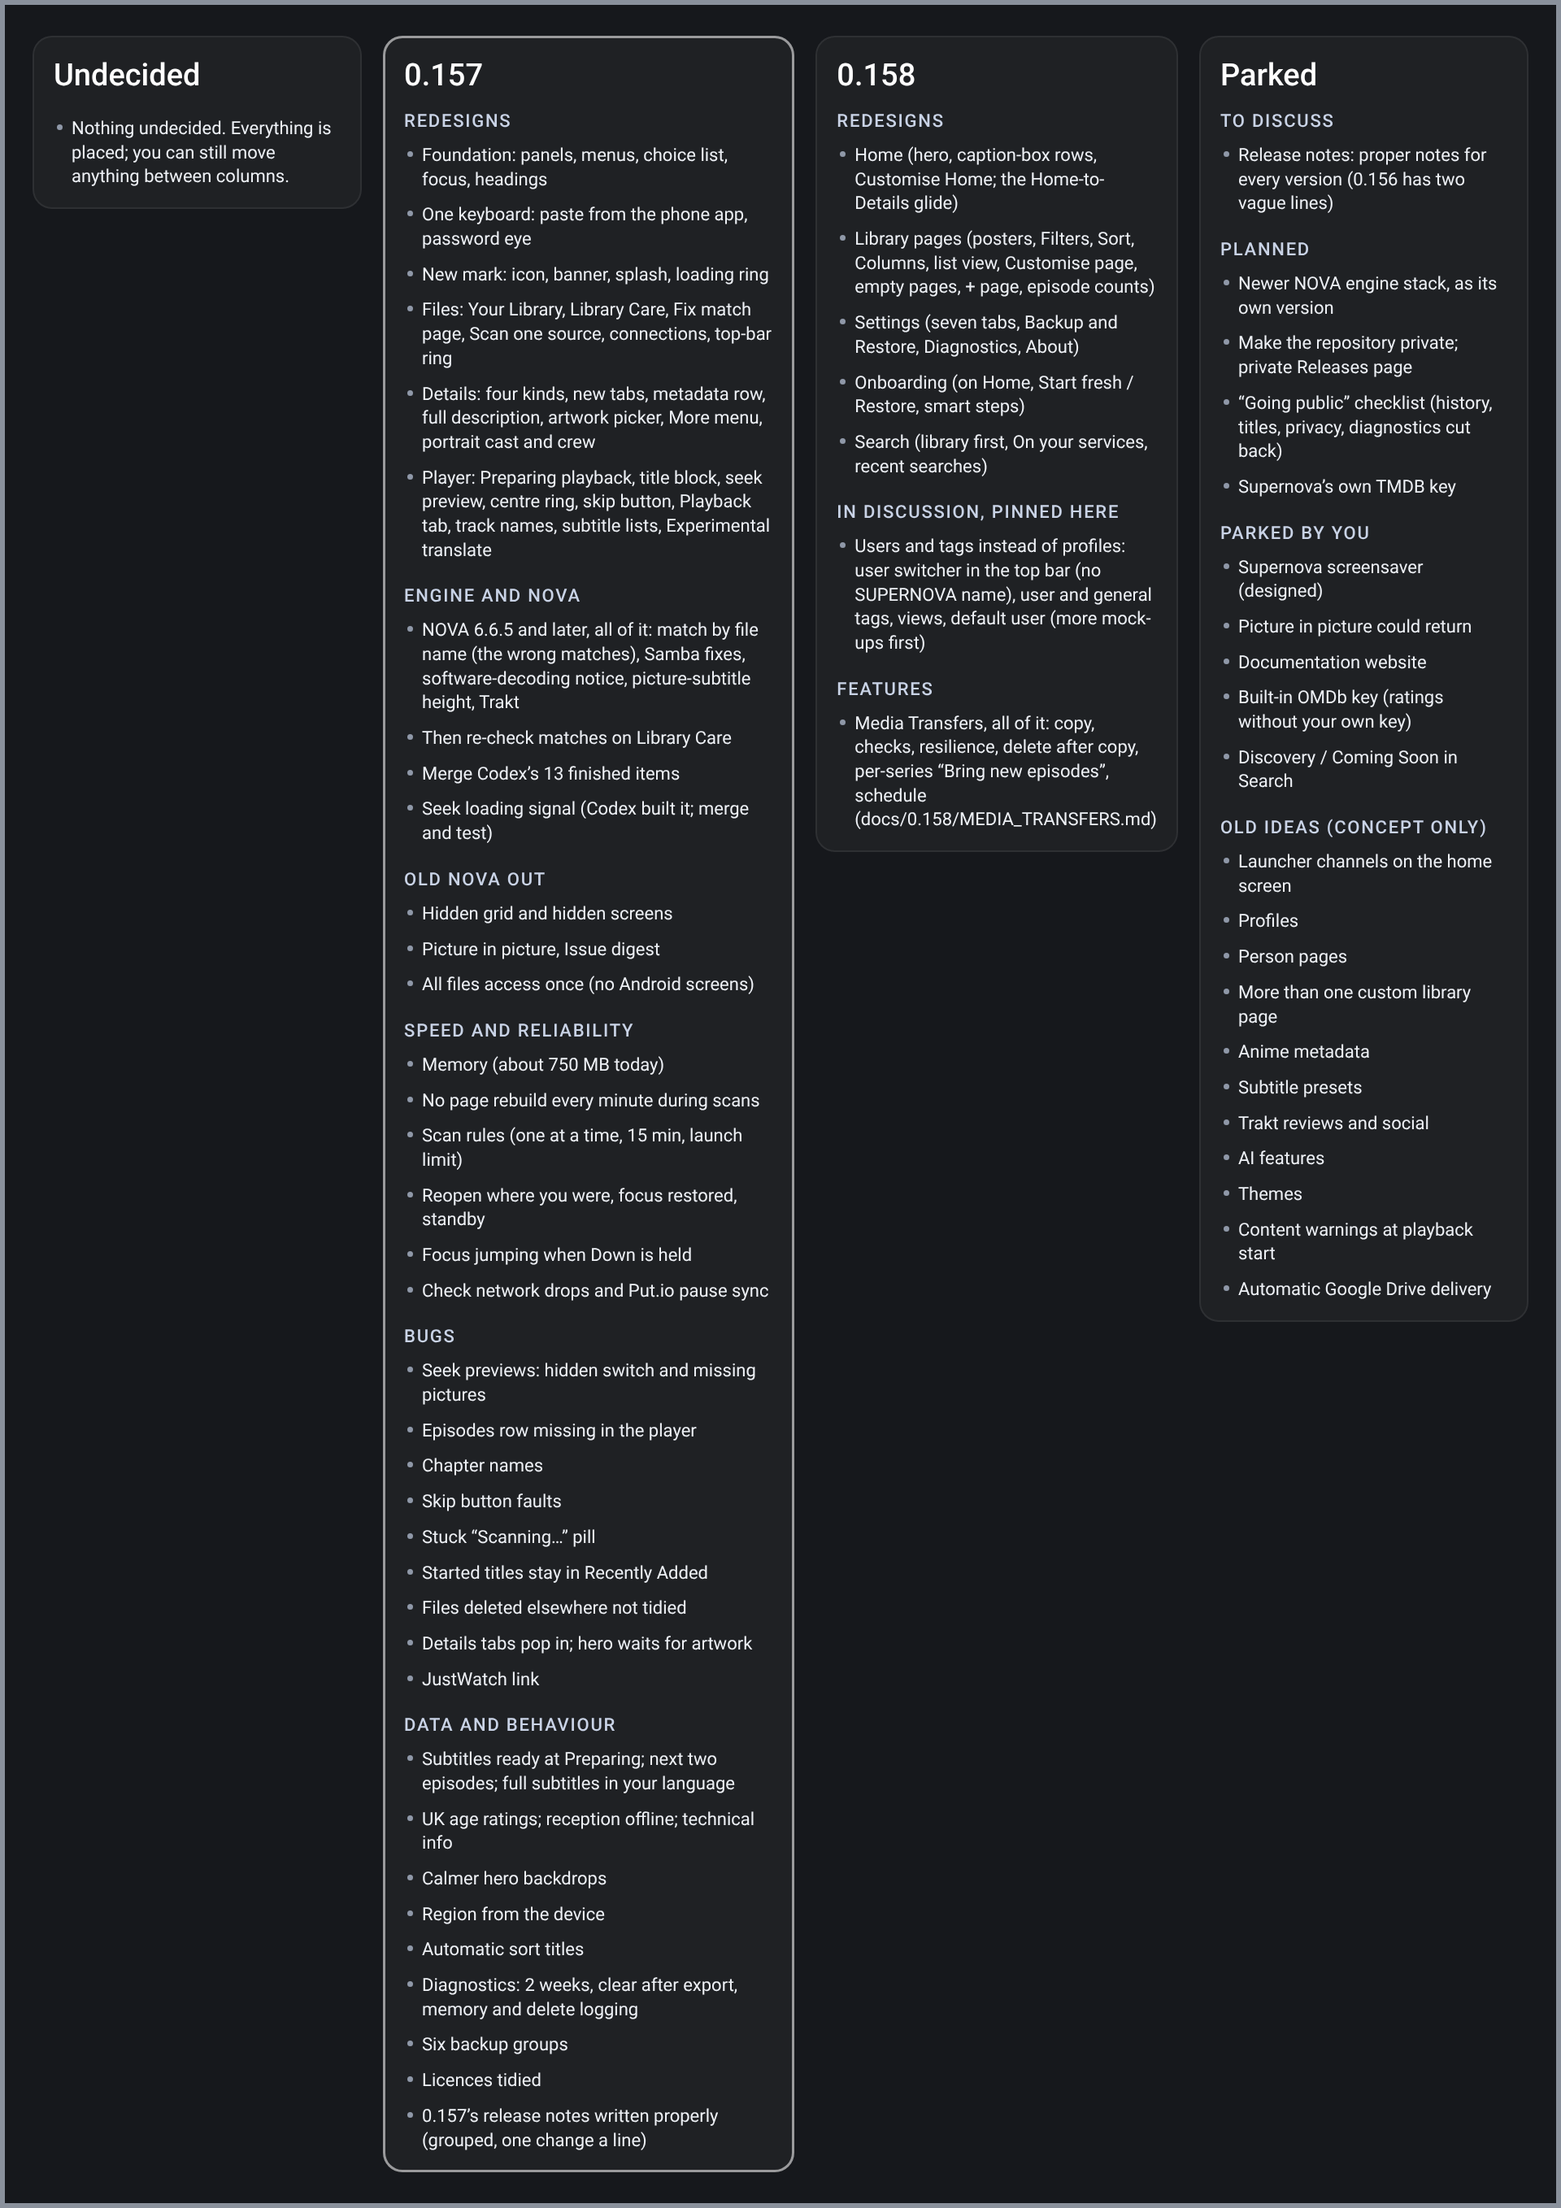
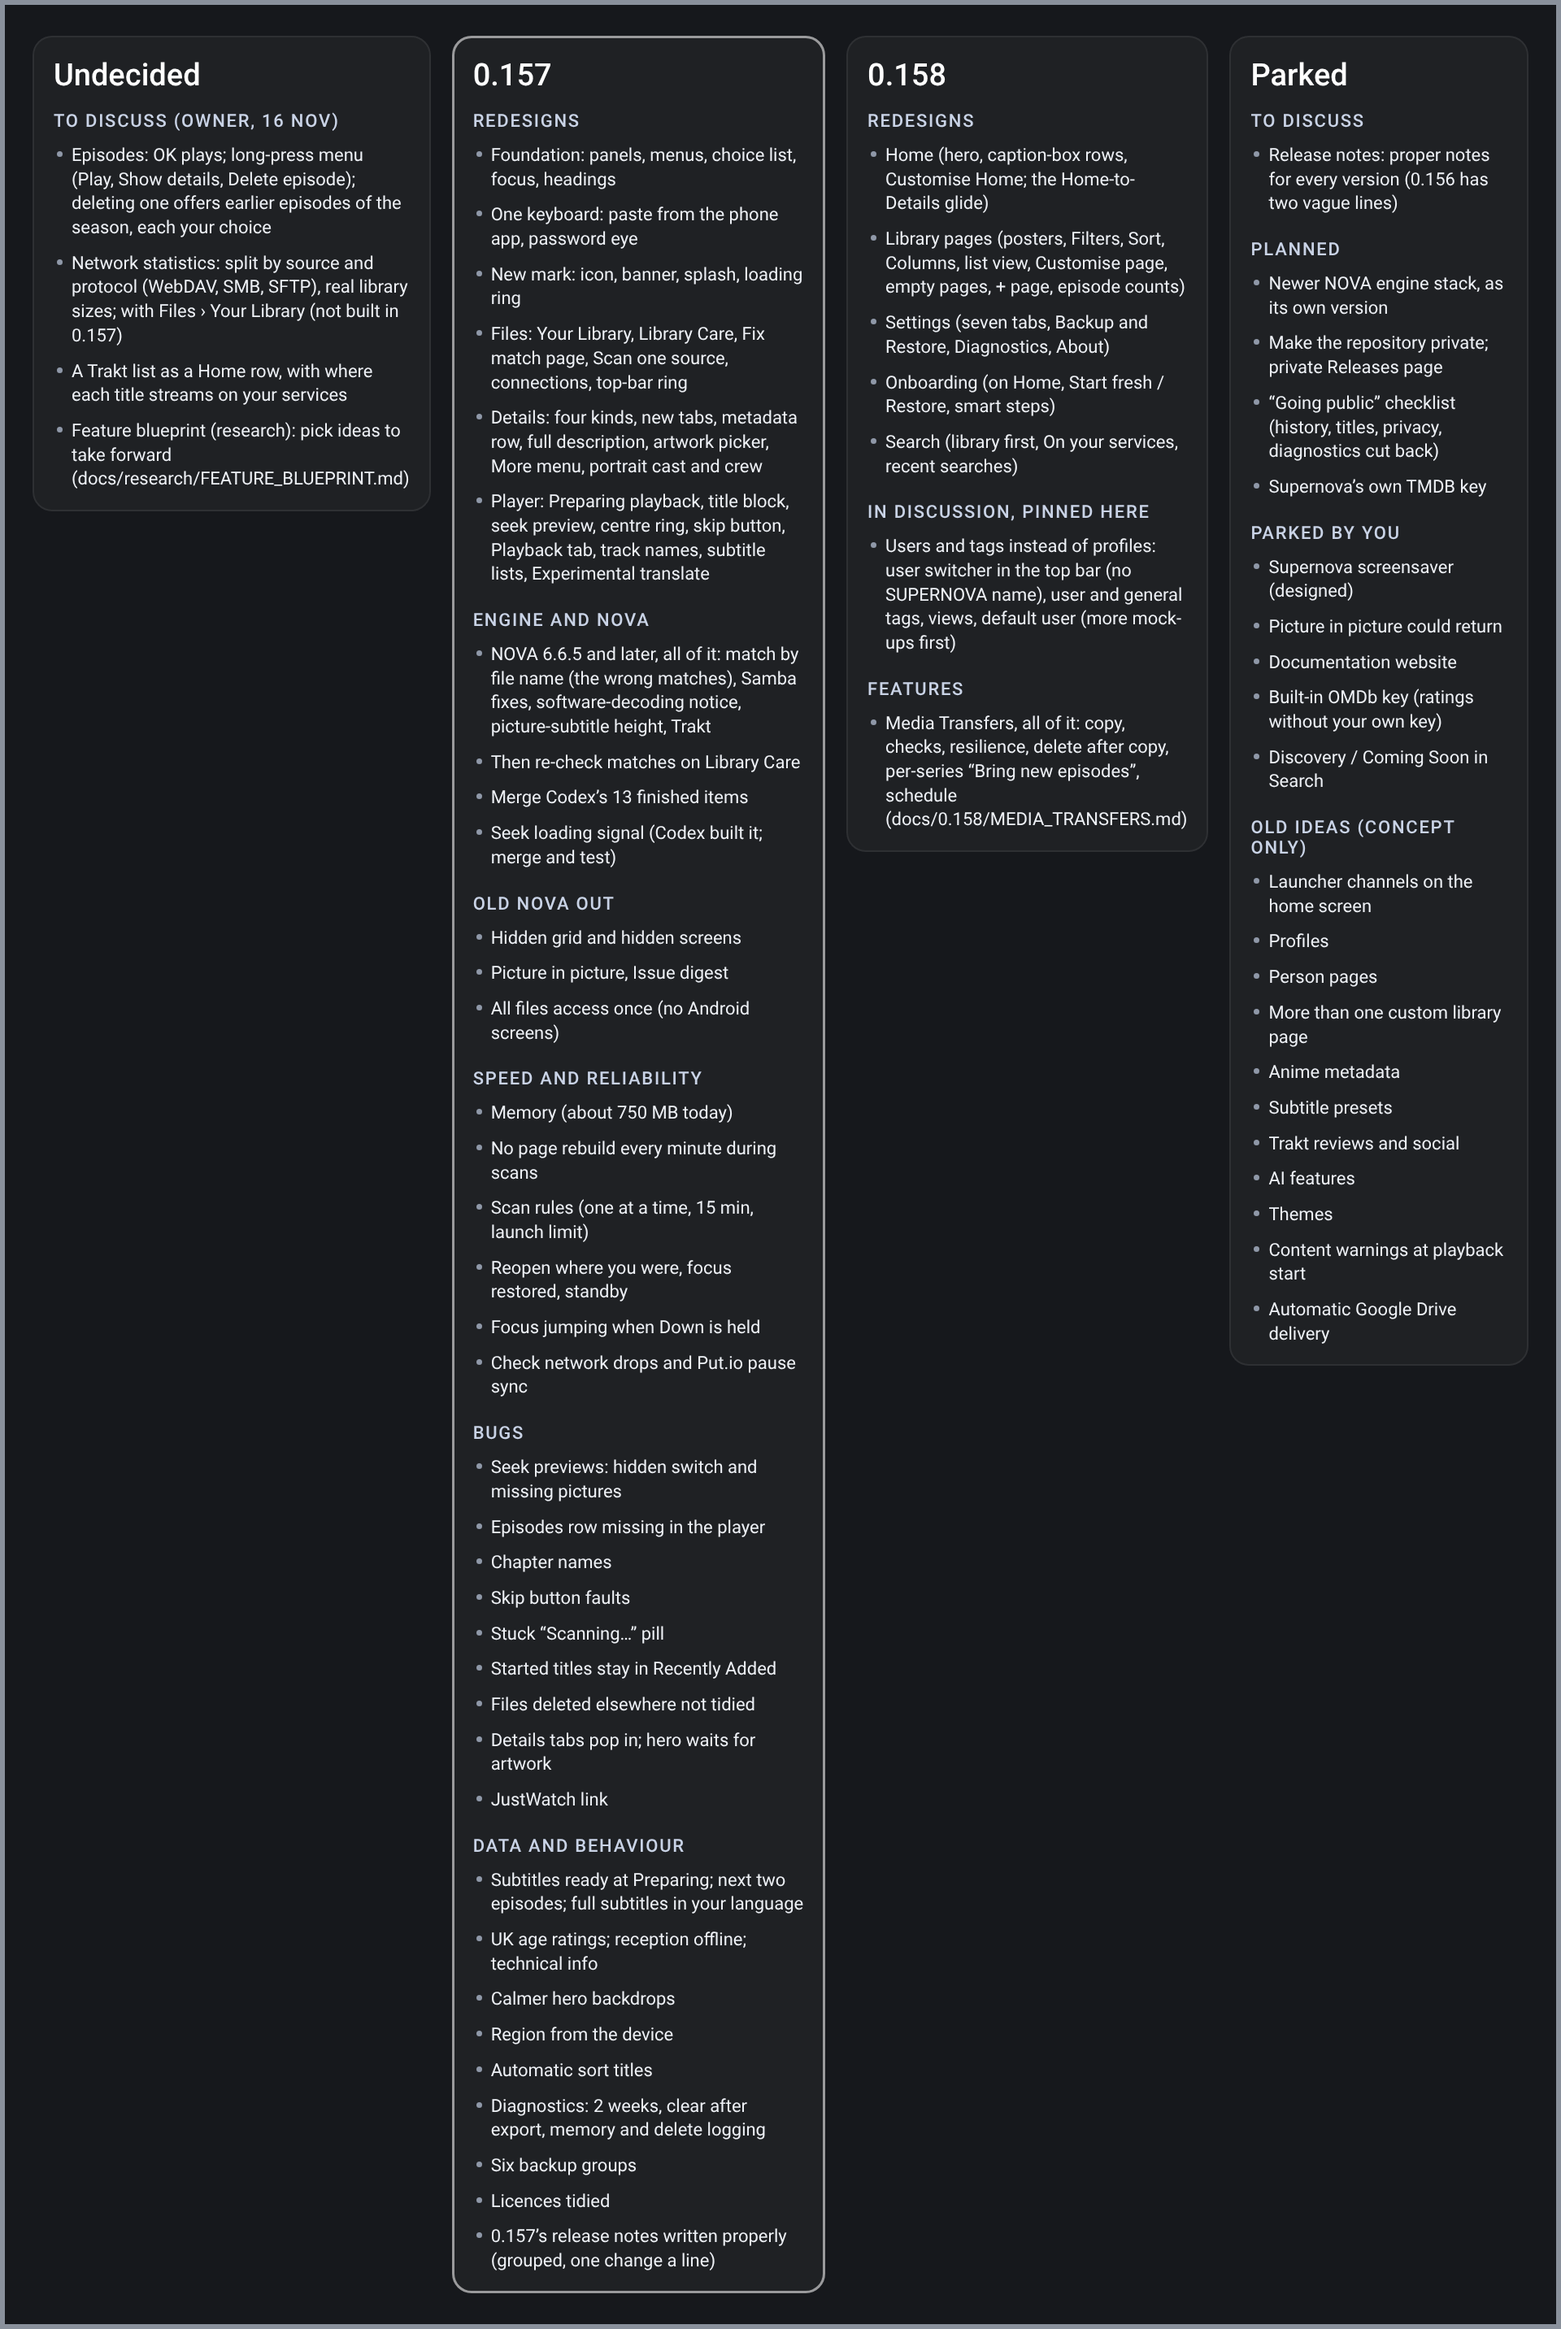
Roadmap: the owner's four 16 Nov items in Undecided, to discuss
Claude-Session: https://claude.ai/code/session_01FtDZqb1Ka4HivD8bozkUhx

Changed region(s): [[0.0312, 0.0, 0.75, 0.9897], [0.7812, 0.0309, 0.9688, 0.5876], [0.5, 0.0, 0.5312, 0.0309]]

diff --git a/docs/0.157/board/render.js b/docs/0.157/board/render.js
@@ -9,7 +9,11 @@ const font = w => `@font-face{font-family:R;font-weight:${w};src:url(data:font/w
 
 const cols = [
   ['Undecided', [
-    ['', ['Nothing undecided. Everything is placed; you can still move anything between columns.']],
+    ['To discuss (owner, 16 Nov)', ['Episodes: OK plays; long-press menu (Play, Show details, Delete episode); '
+      + 'deleting one offers earlier episodes of the season, each your choice', 'Network statistics: split by '
+      + 'source and protocol (WebDAV, SMB, SFTP), real library sizes; with Files › Your Library (not built in 0.157)',
+      'A Trakt list as a Home row, with where each title streams on your services', 'Feature blueprint (research): '
+      + 'pick ideas to take forward (docs/research/FEATURE_BLUEPRINT.md)']],
   ]],
   ['0.157', [
     ['Redesigns', ['Foundation: panels, menus, choice list, focus, headings', 'One keyboard: paste from the phone '
